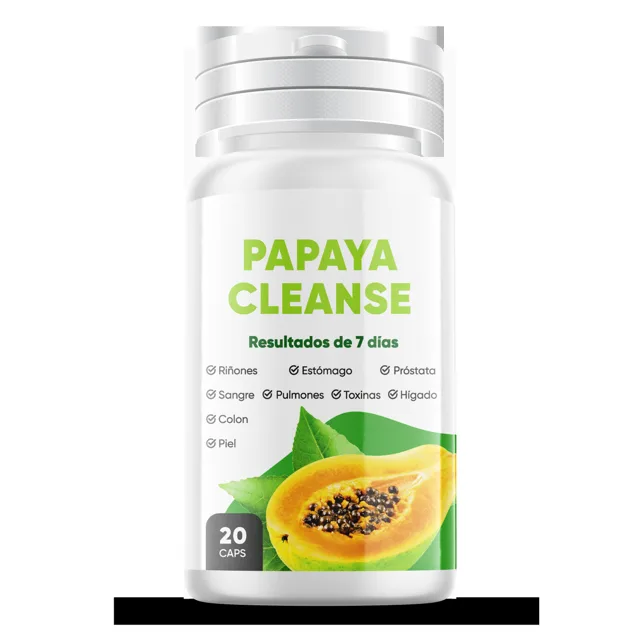
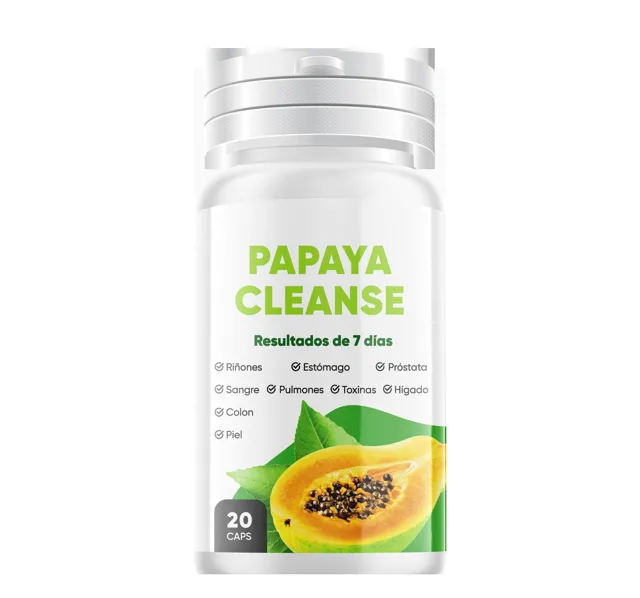
Аудит картинок 13.10: Gigant PL/GR на белом вместо чёрного, Joinflex CO чёткий кадр, Papaya Cleanse CO без чёрной полосы

diff --git a/ac/papaya-cleanse/index.html b/ac/papaya-cleanse/index.html
@@ -348,7 +348,7 @@ body.free .disc,body:not(.free) .nodisc{display:none}
       <div>
         <div class="product-card">
           <span class="disc-ribbon disc">-50%</span>
-          <img src="../../img/adcombo-38759.webp" alt="Papaya cleanse" width="640" height="640" fetchpriority="high" decoding="async">
+          <img src="../../img/adcombo-38759.webp" alt="Papaya cleanse" width="640" height="598" fetchpriority="high" decoding="async">
           <div><span class="ribbon">Original</span><div class="shotcap">Este es el empaque original que le trae el mensajero: sello, número de lote y fecha de vencimiento.</div></div>
         </div>
       </div>

diff --git a/dc/papaya-cleanse/index.html b/dc/papaya-cleanse/index.html
@@ -348,7 +348,7 @@ body.free .disc,body:not(.free) .nodisc{display:none}
       <div>
         <div class="product-card">
           <span class="disc-ribbon disc">-50%</span>
-          <img src="../../img/adcombo-38759.webp" alt="Papaya Cleanse" width="640" height="640" fetchpriority="high" decoding="async">
+          <img src="../../img/adcombo-38759.webp" alt="Papaya Cleanse" width="640" height="598" fetchpriority="high" decoding="async">
           <div><span class="ribbon">Original</span><div class="shotcap">Este es el empaque original que le trae el mensajero: sello, número de lote y fecha de vencimiento.</div></div>
         </div>
       </div>

diff --git a/lb/joinflex/index.html b/lb/joinflex/index.html
@@ -348,7 +348,7 @@ body.free .disc,body:not(.free) .nodisc{display:none}
       <div>
         <div class="product-card">
           <span class="disc-ribbon disc">-50%</span>
-          <img src="../../img/alt3-lbhd-10290.webp" alt="Joinflex" width="330" height="323" fetchpriority="high" decoding="async">
+          <img src="../../img/achd-37681.webp" alt="Joinflex" width="505" height="640" fetchpriority="high" decoding="async">
           <div><span class="ribbon">Original</span><div class="shotcap">Este es el empaque original que le trae el mensajero: sello, número de lote y fecha de vencimiento.</div></div>
         </div>
       </div>

diff --git a/lr/joinflex/index.html b/lr/joinflex/index.html
@@ -348,7 +348,7 @@ body.free .disc,body:not(.free) .nodisc{display:none}
       <div>
         <div class="product-card">
           <span class="disc-ribbon disc">-50%</span>
-          <img src="../../img/lrhd-4050.webp" alt="Joinflex" width="330" height="323" fetchpriority="high" decoding="async">
+          <img src="../../img/achd-37681.webp" alt="Joinflex" width="505" height="640" fetchpriority="high" decoding="async">
           <div><span class="ribbon">Original</span><div class="shotcap">Este es el empaque original que le trae el mensajero: sello, número de lote y fecha de vencimiento.</div></div>
         </div>
       </div>
